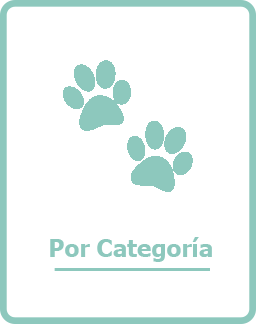
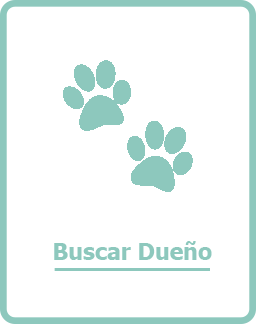
Correo en reportes activos y otros
Se agregan los correos en los reportes activos, para que se pueda
contactar con los dueños.
Se corrigen otros errores.

Changed region(s): [[0.1875, 0.7099, 0.8438, 0.8333]]

diff --git a/src/reportesActivos/VentanaReportesActivos.java b/src/reportesActivos/VentanaReportesActivos.java
@@ -6,6 +6,8 @@ import java.awt.Color;
 import java.awt.Component;
 import java.awt.Dimension;
 import java.awt.GridBagConstraints;
+import java.awt.event.MouseAdapter;
+import java.awt.event.MouseEvent;
 import java.awt.image.BufferedImage;
 import java.io.IOException;
 import java.util.ArrayList;
@@ -83,6 +85,17 @@ public class VentanaReportesActivos extends JPanel{
 		tabla.getColumn("Estado").setCellRenderer(normal);
 		panelContenedor.setLayout(new CardLayout(0, 0));
 		
+		
+		tabla.addMouseListener(new MouseAdapter() {
+			public void mouseClicked(MouseEvent evt) {
+				if(evt.getClickCount() == 2){
+					int indexFila = tabla.convertRowIndexToModel(tabla.getSelectedRow());
+					String dato = (String)tabla.getModel().getValueAt(indexFila, 4);
+					new VentanaOpciones(dato);
+				}
+		}
+		});
+		
 		JScrollPane scrollPanel = new JScrollPane(tabla,JScrollPane.VERTICAL_SCROLLBAR_AS_NEEDED, JScrollPane.HORIZONTAL_SCROLLBAR_AS_NEEDED);
 		grid.fill = GridBagConstraints.BOTH;
 		panelContenedor.add(scrollPanel, "name_181078707065095");
@@ -96,26 +109,25 @@ public class VentanaReportesActivos extends JPanel{
 		listaPath.clear();
 		Mascotas totalMascotas = Mascotas.getInstance();
 		for(int i = 0; i < totalMascotas.mascotasRegistradas.size(); i++) {
-			if(totalMascotas.mascotasRegistradas.get(i).getCondicionEntrada().toLowerCase().equals("extraviado")) {
 			
-				String Tipo = totalMascotas.mascotasRegistradas.get(i).getAnimalReportado().getTipoMascota();
-				String Raza = totalMascotas.mascotasRegistradas.get(i).getAnimalReportado().getRaza();
-				String Color = totalMascotas.mascotasRegistradas.get(i).getAnimalReportado().getColor();
-				String Sexo = totalMascotas.mascotasRegistradas.get(i).getAnimalReportado().getSexo();
-				String Chip = totalMascotas.mascotasRegistradas.get(i).getAnimalReportado().getChipIdentificacion();
-				String Nombre = totalMascotas.mascotasRegistradas.get(i).getAnimalReportado().getNombreMascota();
-				String Estado = totalMascotas.mascotasRegistradas.get(i).getCondicionEntrada();
-				
-				String pathImagen = totalMascotas.mascotasRegistradas.get(i).getFotosAnimal().get(0);
-				if(!pathImagen.isEmpty()) {
-					listaPath.add(pathImagen);
-				}
-				else {
-					listaPath.add("");
-				}
-				Object[] nuevaFila = {Tipo, Raza, Color, Sexo, Chip, Nombre, Estado};
-				modelo.addRow(nuevaFila);
+			String Tipo = totalMascotas.mascotasRegistradas.get(i).getAnimalReportado().getTipoMascota();
+			String Raza = totalMascotas.mascotasRegistradas.get(i).getAnimalReportado().getRaza();
+			String Color = totalMascotas.mascotasRegistradas.get(i).getAnimalReportado().getColor();
+			String Sexo = totalMascotas.mascotasRegistradas.get(i).getAnimalReportado().getSexo();
+			String Chip = totalMascotas.mascotasRegistradas.get(i).getAnimalReportado().getChipIdentificacion();
+			String Nombre = totalMascotas.mascotasRegistradas.get(i).getAnimalReportado().getNombreMascota();
+			String Estado = totalMascotas.mascotasRegistradas.get(i).getCondicionEntrada();
+			
+			String pathImagen = totalMascotas.mascotasRegistradas.get(i).getFotosAnimal().get(0);
+			if(!pathImagen.isEmpty()) {
+				listaPath.add(pathImagen);
 			}
+			else {
+				listaPath.add("");
+			}
+			Object[] nuevaFila = {Tipo, Raza, Color, Sexo, Chip, Nombre, Estado};
+			modelo.addRow(nuevaFila);
+			
 		}
 	}
 }

diff --git a/src/reportesActivos/VentanaOpciones.java b/src/reportesActivos/VentanaOpciones.java
@@ -1,0 +1,96 @@
+package reportesActivos;
+
+import java.awt.Color;
+import java.awt.event.ActionEvent;
+import java.awt.event.ActionListener;
+
+import javax.swing.JButton;
+import javax.swing.ImageIcon;
+import javax.swing.JDialog;
+import javax.swing.JLabel;
+import javax.swing.JOptionPane;
+import javax.swing.JPanel;
+import javax.swing.SwingConstants;
+
+import correosRedesSociales.VentanaCorreo;
+import logicaExterna.Mascotas;
+import menu.principal.VistaPrincipal;
+
+public class VentanaOpciones extends JDialog {
+	public VentanaOpciones(String Identificacion) {
+		getContentPane().setBackground(new Color(153, 204, 204));
+		getContentPane().setLayout(null);
+		
+		JButton btnContactar = new JButton("");
+		btnContactar.setIcon(new ImageIcon(VentanaOpciones.class.getResource("/recursos/Lupa.png")));
+		btnContactar.setBounds(48, 31, 71, 68);
+		getContentPane().add(btnContactar);
+		btnContactar.setBorder(null);
+		btnContactar.setContentAreaFilled(false);
+		btnContactar.setOpaque(false);
+		btnContactar.addActionListener(new ActionListener() {
+			public void actionPerformed(ActionEvent arg0) {
+				String correo = obtenerAnimal(Identificacion);
+				if(!correo.equals("")) {
+					new VentanaCorreo(correo);
+					dispose();
+				}
+				else {
+					JOptionPane.showMessageDialog(getContentPane(), "No existe la mascota que desea adoptar");
+				}
+			}
+		});
+		
+		JButton btnAdoptar = new JButton("");
+		btnAdoptar.setIcon(new ImageIcon(VentanaOpciones.class.getResource("/recursos/corazon.png")));
+		btnAdoptar.setBounds(171, 31, 77, 68);
+		getContentPane().add(btnAdoptar);
+		btnAdoptar.setBorder(null);
+		btnAdoptar.setContentAreaFilled(false);
+		btnAdoptar.setOpaque(false);
+		btnAdoptar.addActionListener(new ActionListener() {
+			public void actionPerformed(ActionEvent arg0) {
+				if(VistaPrincipal.getUsuario().isAdoptante()) {
+					String correo = obtenerAnimal(Identificacion);
+					if(!correo.equals("")) {
+						new VentanaCorreo(correo);
+						dispose();
+					}
+				}
+				else {
+					JOptionPane.showMessageDialog(getContentPane(), "Usted no es adoptante, por lo tanto no puede adoptar");
+				}
+					
+			}
+		});
+		
+		JLabel Contactar = new JLabel("Contactar Due\u00F1o");
+		Contactar.setHorizontalAlignment(SwingConstants.CENTER);
+		Contactar.setBounds(20, 97, 114, 37);
+		getContentPane().add(Contactar);
+		
+		JLabel lblAdoptar = new JLabel("Adoptar");
+		lblAdoptar.setHorizontalAlignment(SwingConstants.CENTER);
+		lblAdoptar.setBounds(171, 97, 89, 37);
+		getContentPane().add(lblAdoptar);
+		setSize(300, 200);
+		setModal (true);
+		setAlwaysOnTop(true);
+		setModalityType (ModalityType.APPLICATION_MODAL);
+		setLocationRelativeTo(null);
+		setVisible(true);
+		setDefaultCloseOperation(JDialog.DISPOSE_ON_CLOSE);
+	}
+	
+	public String obtenerAnimal(String identificacion) {
+		Mascotas totalMascotas = Mascotas.getInstance();
+		String nuevoDato = "";
+		for(int i = 0; i < totalMascotas.mascotasRegistradas.size(); i++) {
+			if(totalMascotas.mascotasRegistradas.get(i).getAnimalReportado().getChipIdentificacion().equals(identificacion) && 
+					totalMascotas.mascotasRegistradas.get(i).getCondicionEntrada().toLowerCase().equals("encontrado")) {
+				nuevoDato = totalMascotas.mascotasRegistradas.get(i).getCorreoContacto();
+			}
+		}
+		return nuevoDato;	
+	}
+}

diff --git a/src/petFinder/VentanaMisMascotas.java b/src/petFinder/VentanaMisMascotas.java
@@ -97,7 +97,6 @@ public class VentanaMisMascotas extends JPanel {
 					String pathImagen = totalMascotas.mascotasRegistradas.get(i).getFotosAnimal().get(0);
 					if(!pathImagen.isEmpty()) {
 						listaPath.add(pathImagen);
-						System.out.println(listaPath);
 					}
 					else {
 						listaPath.add("");
